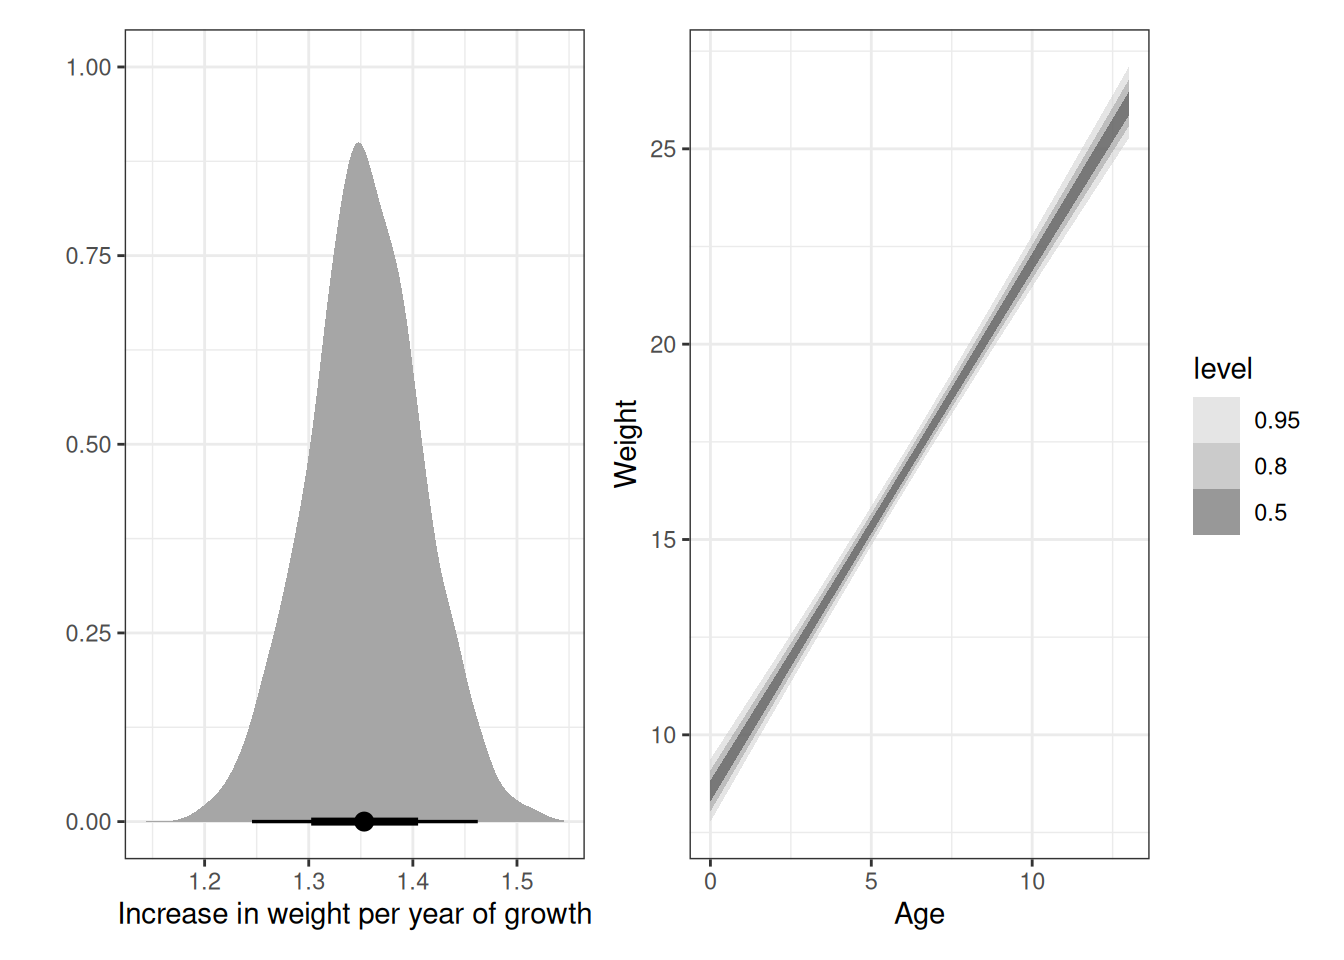
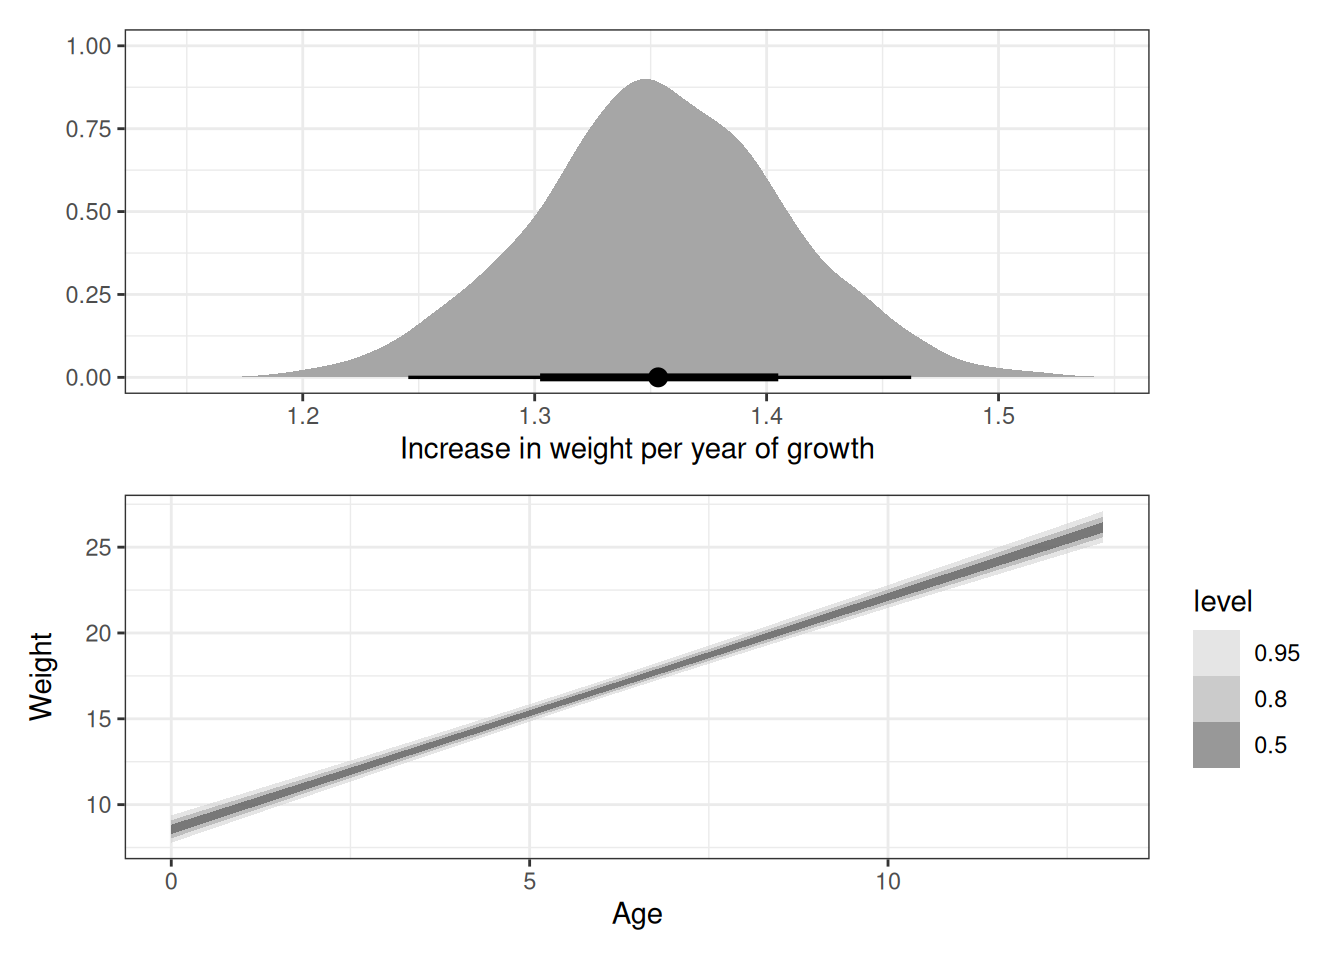
render

diff --git a/docs/index.html b/docs/index.html
@@ -198,7 +198,10 @@ ul.task-list li input[type="checkbox"] {
   </ul></li>
   <li><a href="#resources" id="toc-resources" class="nav-link" data-scroll-target="#resources">Resources</a></li>
   <li><a href="#installation" id="toc-installation" class="nav-link" data-scroll-target="#installation">Installation</a></li>
+  <li><a href="#community" id="toc-community" class="nav-link" data-scroll-target="#community">Community</a>
+  <ul class="collapse">
   <li><a href="#code-of-conduct" id="toc-code-of-conduct" class="nav-link" data-scroll-target="#code-of-conduct">Code of Conduct</a></li>
+  </ul></li>
   </ul></li>
   </ul>
 <div class="toc-actions"><div><i class="bi bi-github"></i></div><div class="action-links"><p><a href="https://github.com/robitalec/statistical-rethinking-colearning-2024/edit/main/index.qmd" class="toc-action">Edit this page</a></p><p><a href="https://github.com/robitalec/statistical-rethinking-colearning-2024/issues/new" class="toc-action">Report an issue</a></p></div></div></nav>
@@ -404,11 +407,17 @@ ul.task-list li input[type="checkbox"] {
 <li><a href="https://github.com/jeroen/v8#installation"><code>V8</code></a></li>
 </ul>
 </section>
-<section id="code-of-conduct" class="level2">
-<h2 class="anchored" data-anchor-id="code-of-conduct">Code of Conduct</h2>
+<section id="community" class="level2">
+<h2 class="anchored" data-anchor-id="community">Community</h2>
+<p>Our colearning group uses <a href="https://zulip.com/">Zulip</a> (an open-source modern team chat app designed to keep both live and asynchronous conversations organized).</p>
+<p>Get in touch to join.</p>
+<p><img src="https://raw.githubusercontent.com/zulip/zulip/main/static/images/logo/zulip-icon-128x128.png" class="img-fluid"></p>
+<section id="code-of-conduct" class="level3">
+<h3 class="anchored" data-anchor-id="code-of-conduct">Code of Conduct</h3>
 <p>Please note that this project is released with a <a href="./CODE_OF_CONDUCT.html">Code of Conduct</a>. By participating in this project you agree to abide by its terms.</p>
 
 
+</section>
 </section>
 </section>
 

diff --git a/docs/homework/02-homework.html b/docs/homework/02-homework.html
@@ -430,7 +430,7 @@ scale reduction factor on split chains (at convergence, Rhat = 1).</code></pre>
 <span>    <span class="fu">scale_fill_grey</span><span class="op">(</span>start <span class="op">=</span> <span class="fl">0.8</span>, end <span class="op">=</span> <span class="fl">0.2</span><span class="op">)</span> <span class="op">+</span> </span>
 <span>    <span class="fu">labs</span><span class="op">(</span>x <span class="op">=</span> <span class="st">'Age'</span>, y <span class="op">=</span> <span class="st">'Weight'</span><span class="op">)</span></span>
 <span></span>
-<span><span class="va">g1</span> <span class="op">+</span> <span class="va">g2</span></span></code><button title="Copy to Clipboard" class="code-copy-button"><i class="bi"></i></button></pre></div>
+<span><span class="va">g1</span> <span class="op">/</span> <span class="va">g2</span></span></code><button title="Copy to Clipboard" class="code-copy-button"><i class="bi"></i></button></pre></div>
 <div class="cell-output-display">
 <p><img src="02-homework_files/figure-html/unnamed-chunk-7-1.png" class="img-fluid" width="672"></p>
 </div>
